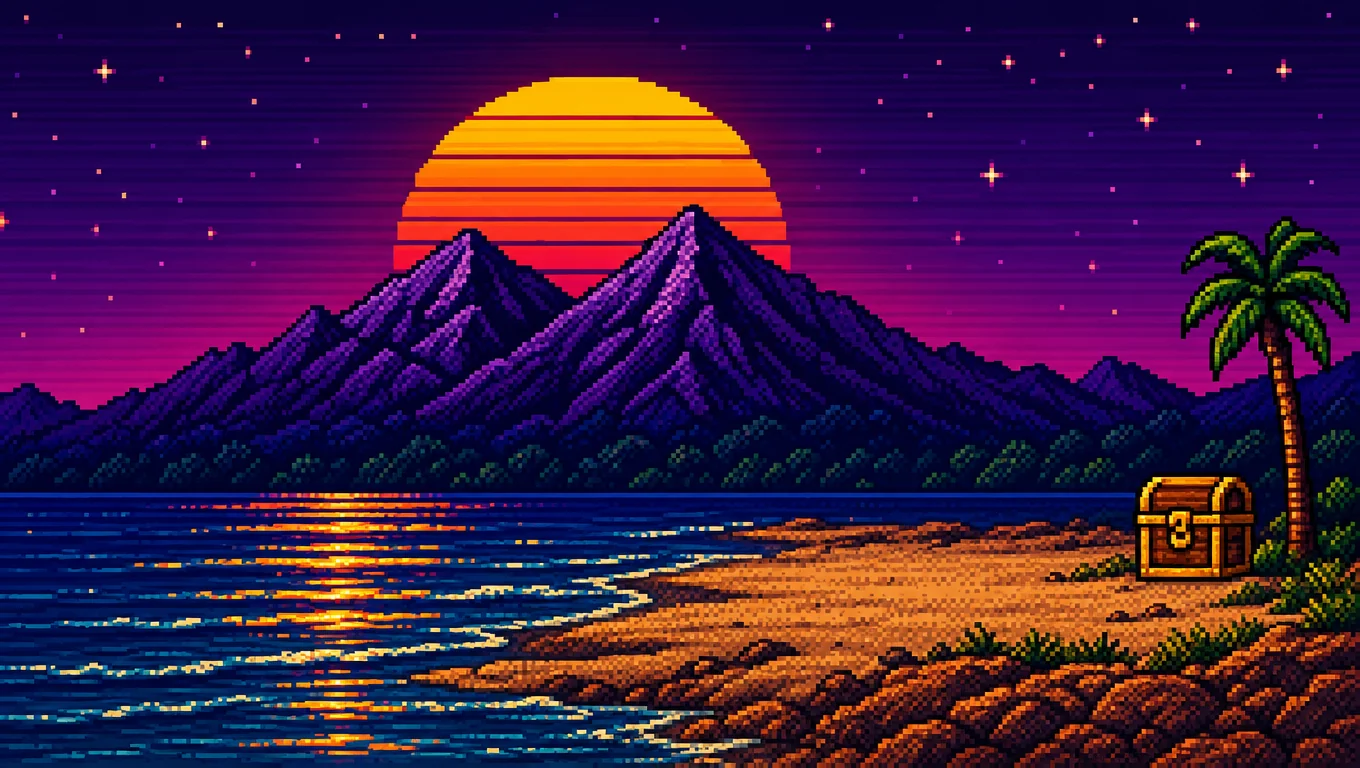
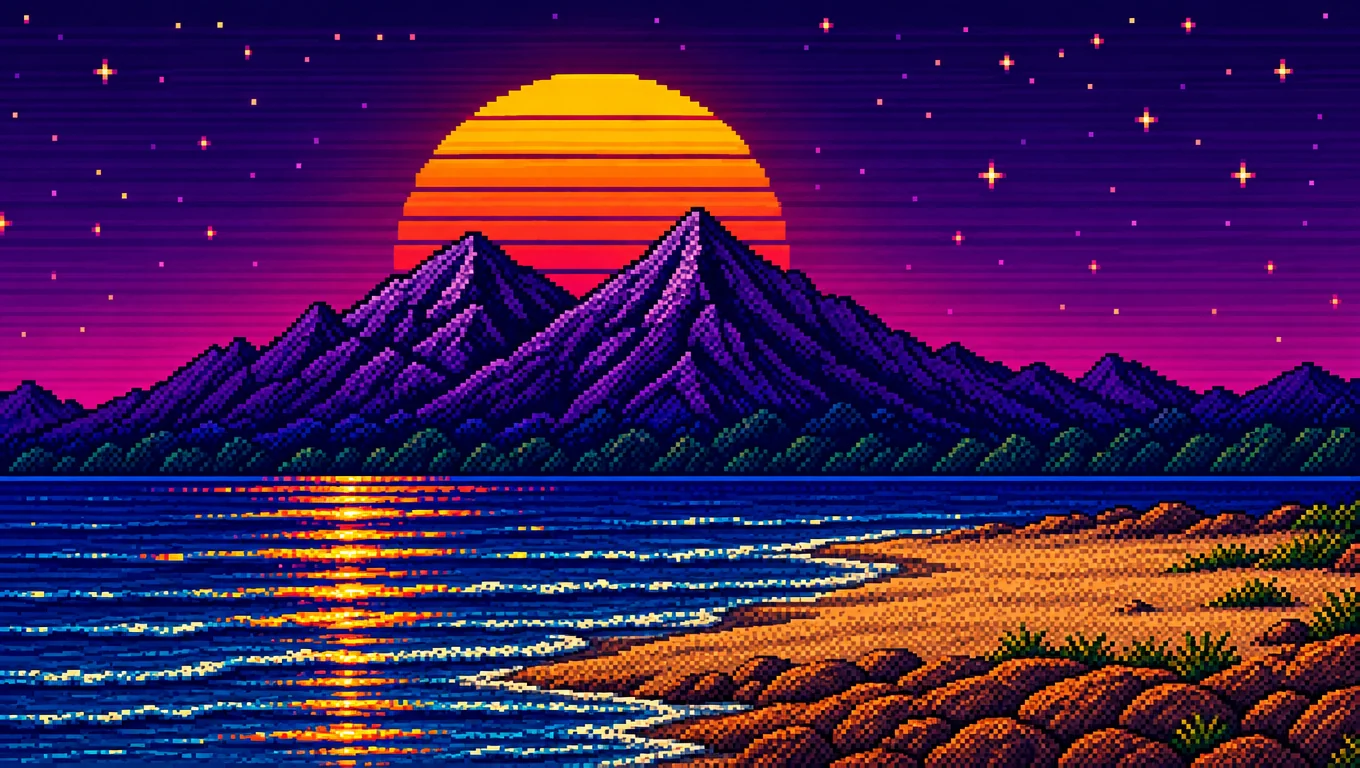
Portada: palmera que se mece con el viento y cofre que se abre y cierra (arte Makko + CSS)

diff --git a/css/style.css b/css/style.css
@@ -98,10 +98,51 @@ a { color: var(--cyan); }
 .hero h1 { margin: 0 0 32px; }
 .hero-logo { width: 100%; max-width: 520px; height: auto; }
 .hero-window .scene { position: relative; }
-.hero-window .scene > img { width: 100%; height: auto; }
+.hero-window .scene { overflow: hidden; }
+.hero-window .scene > img:first-child { width: 100%; height: auto; display: block; }
 /* La mascota se para en la arena libre de la playa, a la izquierda del cofre */
 .mascota { position: absolute; left: 62%; bottom: 17%; height: 42%; }
 .mascota img { height: 100%; width: auto; filter: drop-shadow(0 3px 0 rgba(0, 0, 0, 0.35)); }
+
+/* Palmera: se mece desde la base del tronco, con ráfagas suaves */
+.hero-window .palmera {
+  position: absolute; left: 84%; bottom: 25%; height: 62%; width: auto; max-width: none;
+  transform-origin: 50% 100%;
+  animation: viento 4.2s ease-in-out infinite;
+}
+@keyframes viento {
+  0%, 100% { transform: rotate(-1deg); }
+  20%      { transform: rotate(3deg); }
+  35%      { transform: rotate(1deg); }
+  50%      { transform: rotate(4deg); }
+  70%      { transform: rotate(0deg); }
+  85%      { transform: rotate(2deg); }
+}
+
+/* Cofre: hoja de 2 cuadros (cerrado | abierto) que alterna */
+.hero-window .cofre {
+  position: absolute; left: 76%; bottom: 21%; height: 14%;
+  aspect-ratio: 132 / 147;
+  background: url("../img/brand/cofre.png") 0 0 / 200% 100% no-repeat;
+  image-rendering: auto;
+  animation: cofre 4s steps(1, end) infinite;
+}
+@keyframes cofre {
+  0%   { background-position: 0 0; }     /* cerrado */
+  45%  { background-position: 100% 0; }  /* se abre: brillan las monedas */
+  85%  { background-position: 0 0; }     /* se cierra */
+}
+/* al abrirse da un pequeño salto */
+.hero-window .cofre { transform-origin: 50% 100%; }
+.hero-window .cofre { animation: cofre 4s steps(1, end) infinite, cofre-salto 4s ease-out infinite; }
+@keyframes cofre-salto {
+  0%, 44%, 52%, 100% { transform: translateY(0); }
+  47% { transform: translateY(-6%); }
+}
+
+@media (prefers-reduced-motion: reduce) {
+  .hero-window .palmera, .hero-window .cofre { animation: none; }
+}
 @media (max-width: 820px) {
   .hero { grid-template-columns: 1fr; text-align: center; }
   .hero-logo { margin: 0 auto; }

diff --git a/index.html b/index.html
@@ -41,7 +41,10 @@
           <span class="window-buttons" aria-hidden="true"><i></i><i></i><i>×</i></span>
         </div>
         <div class="scene">
-          <img src="img/brand/paisaje-h64.webp" alt="Paisaje pixel art: sol de atardecer sobre montañas moradas y una playa con una palmera y un cofre" width="1360" height="768">
+          <img src="img/brand/paisaje-h64.webp" alt="Paisaje pixel art: sol de atardecer sobre montañas moradas, el mar y una playa" width="1360" height="768">
+          <!-- Palmera meciéndose con el viento y cofre que se abre y se cierra (arte Makko, animación CSS) -->
+          <img class="palmera" src="img/brand/palmera.png" alt="" width="194" height="426">
+          <div class="cofre" role="img" aria-label="Cofre del tesoro que se abre y se cierra"></div>
           <!-- Mascota oficial de Horizonte 64 saludando (animación generada en Makko) -->
           <picture class="mascota">
             <source srcset="img/brand/h64-mascota.png" media="(prefers-reduced-motion: reduce)">
